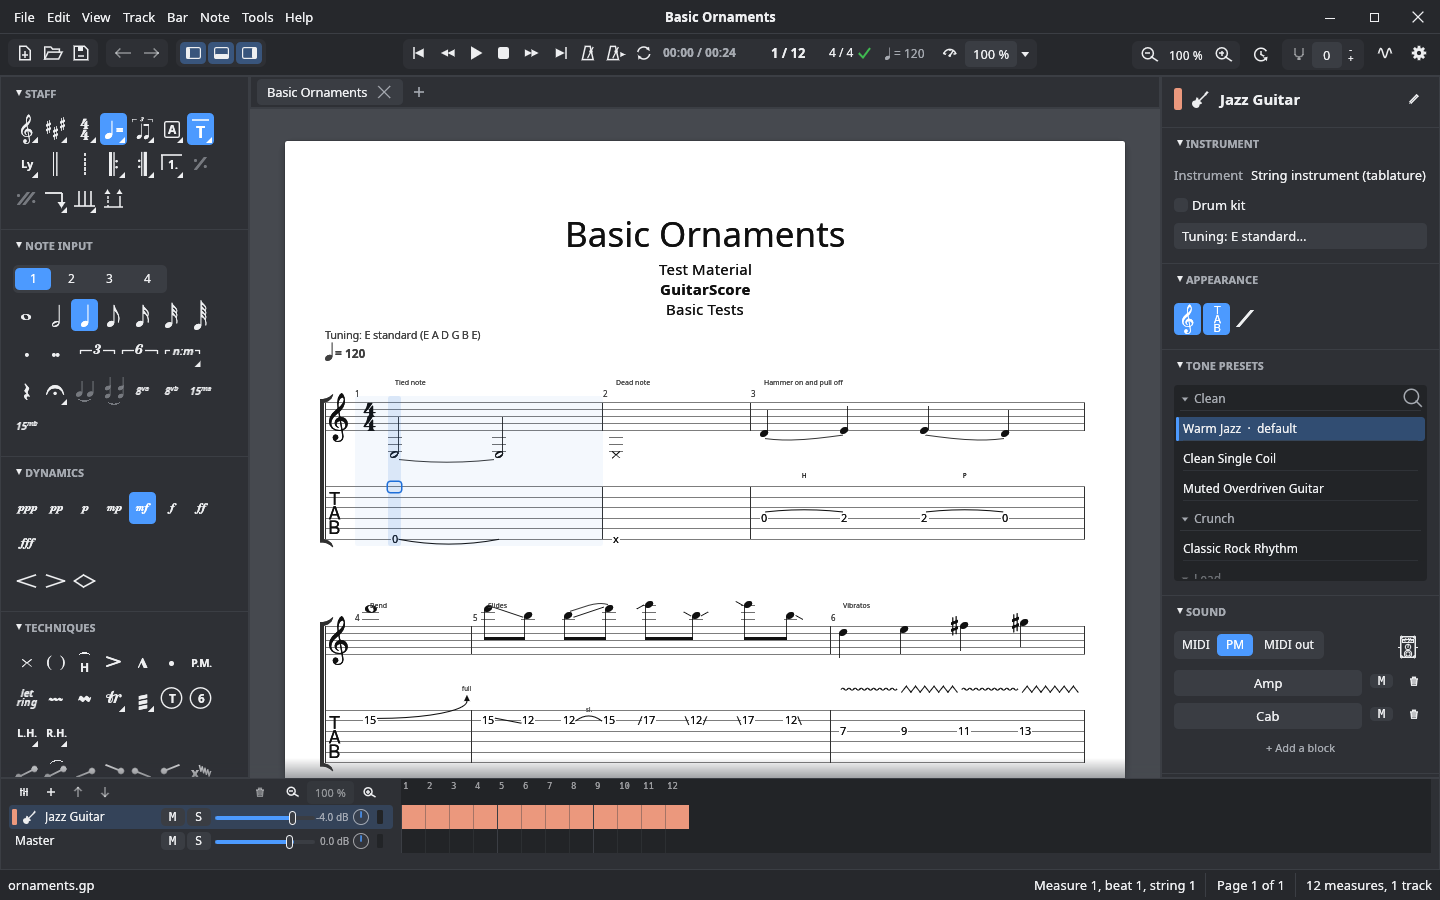
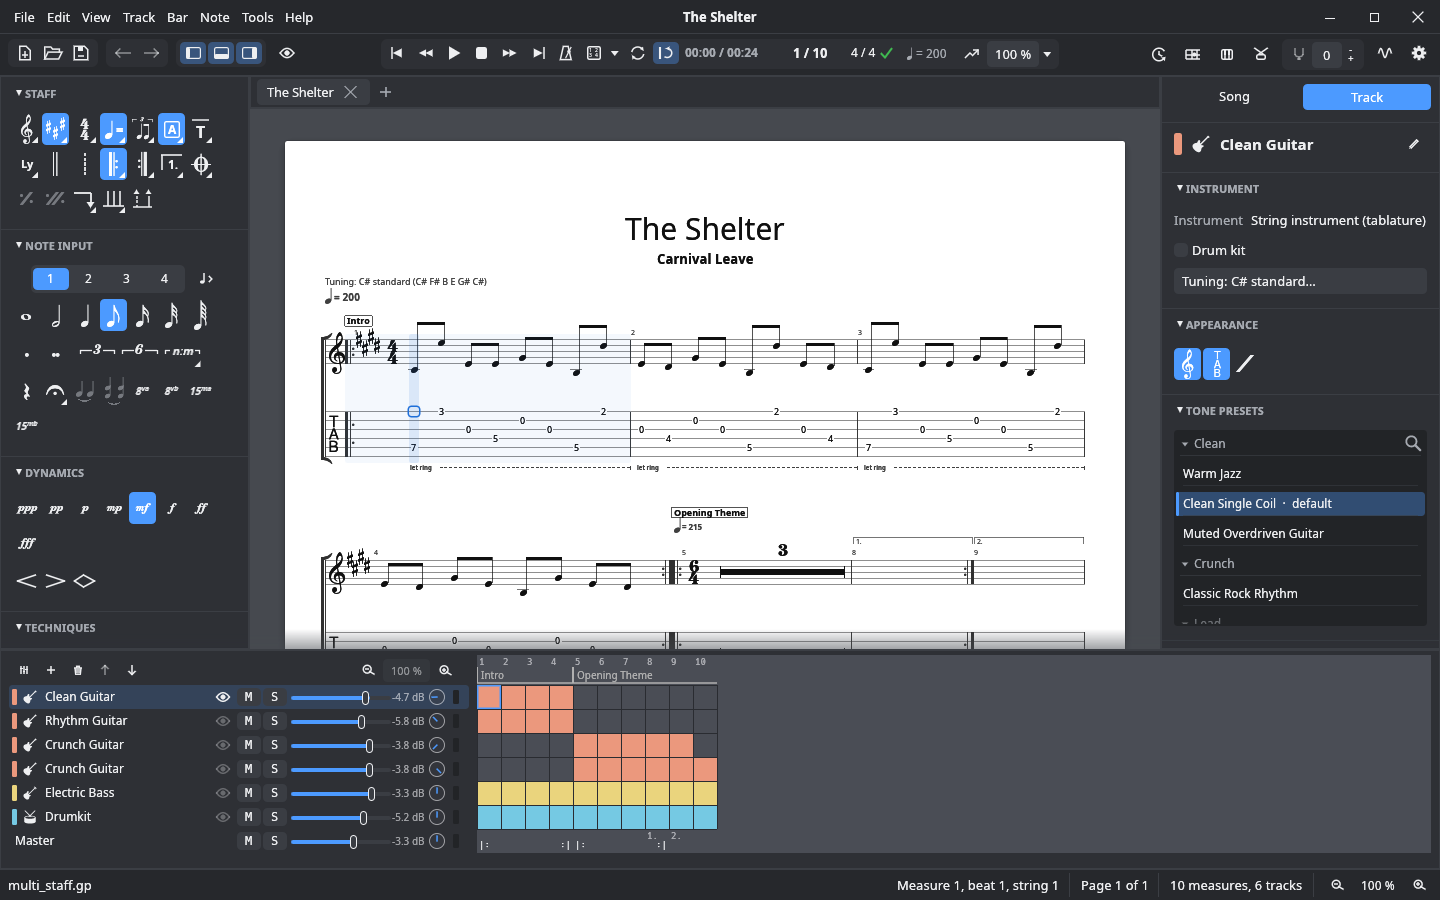
README: shorter points, new screenshot, practice view on a phone
- One line per point.
- The editor screenshot shows a song with several tracks and the song grid
  with its sections.
- Two phone screenshots of the practice view: the score and the drawer.
- The snapshot example takes --practice to render the practice view.

diff --git a/crates/gscore-app/examples/snapshot.rs b/crates/gscore-app/examples/snapshot.rs
@@ -2,7 +2,7 @@
 //! "Verify UI changes visually"):
 //!
 //! ```text
-//! cargo run -p gscore-app --example snapshot -- <file> <out.png> [--dark] [--track N] [--zoom Z] [--size WxH] [--settings] [--history] [--mixer] [--new-track] [--scale S] [--click LABEL]...
+//! cargo run -p gscore-app --example snapshot -- <file> <out.png> [--dark] [--track N] [--zoom Z] [--size WxH] [--settings] [--history] [--mixer] [--new-track] [--practice] [--scale S] [--click LABEL]...
 //! ```
 
 // An example is a small tool: failing loudly with a message is fine here.
@@ -19,14 +19,14 @@ use std::time::{Duration, Instant};
 
 use egui_kittest::Harness;
 use egui_kittest::kittest::Queryable;
-use gscore_app::{GuitarScoreApp, ThemeChoice};
+use gscore_app::{GuitarScoreApp, PracticeChoice, ThemeChoice};
 
 /// How long to wait for the file to open.
 const OPEN_TIMEOUT: Duration = Duration::from_secs(30);
 
 fn main() {
     let mut args = std::env::args().skip(1);
-    let usage = "usage: snapshot <file> <out.png> [--dark] [--track N] [--zoom Z] [--size WxH] [--settings] [--history] [--mixer] [--new-track] [--scale S] [--click LABEL]...";
+    let usage = "usage: snapshot <file> <out.png> [--dark] [--track N] [--zoom Z] [--size WxH] [--settings] [--history] [--mixer] [--new-track] [--practice] [--scale S] [--click LABEL]...";
     let file = PathBuf::from(args.next().expect(usage));
     let out = PathBuf::from(args.next().expect(usage));
     let (mut dark, mut track, mut zoom, mut size) = (false, 1_usize, 1.0_f32, (1100.0, 800.0));
@@ -34,6 +34,7 @@ fn main() {
     let mut history = false;
     let mut mixer = false;
     let mut new_track = false;
+    let mut practice = false;
     let mut scale = 1.0_f32;
     let mut clicks = Vec::new();
     while let Some(arg) = args.next() {
@@ -43,6 +44,7 @@ fn main() {
             "--history" => history = true,
             "--mixer" => mixer = true,
             "--new-track" => new_track = true,
+            "--practice" => practice = true,
             "--track" => track = args.next().and_then(|t| t.parse().ok()).expect(usage),
             "--scale" => scale = args.next().and_then(|s| s.parse().ok()).expect(usage),
             "--click" => clicks.push(args.next().expect(usage)),
@@ -97,6 +99,9 @@ fn main() {
         }
         if new_track {
             app.open_new_track();
+        }
+        if practice {
+            app.set_practice_view(PracticeChoice::On);
         }
     }
     harness.run();

diff --git a/README.md b/README.md
@@ -11,34 +11,23 @@
 you type, and open the Guitar Pro files you already have. Native, written in Rust, and
 built never to lose your work.
 
-![GuitarScore editing a tab with notation, techniques and the edit palette](docs/media/editor.png)
+![GuitarScore editing a song: notation and tab, the edit palette, and the song grid with its tracks and sections](docs/media/editor.png)
 
 ## Why GuitarScore
 
-- **Native and light.** One binary, GPU-rendered, no account, no cloud. Runs on all platforms and in the
-  browser. MIT licensed.
-- **Your Guitar Pro files.** Opens Guitar Pro 3 to 7+, saves Guitar Pro 7 files that open
-  in Guitar Pro again, and exports older Guitar Pro versions, MIDI and PDF. Every save is
-  read back and compared, and anything the file would lose is reported before you trust it.
-- **Never lose work.** Every edit goes to a recovery journal first; after a crash the next
-  start offers your document back, undo history included.
-- **Hear it.** Guitars and basses play on modelled strings through an effect chain you
-  dial in (drive, amp, cabinet, EQ, compressor, chorus, delay, reverb); a built-in
-  synthesizer plays everything else, and a mixer with buses and meters brings it together.
-  Or send any track to a MIDI synthesizer. A tuner is included.
-- **Keyboard first.** Type a fret, press `+` for a shorter note, arrow on. Every action
-  has a key, and every key can be rebound.
-- **Or play it in.** Step entry takes notes from typed frets, note names, the on-screen
-  fretboard and keyboard, or a MIDI keyboard or guitar, and moves on by itself; the
-  fingering picks string and fret, and you hear each note through the track's own sound.
-- **The whole score.** Notation and tab, all techniques with their own editors, several
-  tracks on one page, real pages or one endless page, light and dark. Named score views,
-  jumps and codas, multi-bar rests, and three music fonts (Bravura, Petaluma, Leland).
-- **See the song.** A song grid shows every track's bars with the song's sections: drag
-  sections and bars around, copy them between tracks, and jump to any bar.
-- **Practice anywhere.** A practice view made for phones and tablets: the score, a player
-  with loop and speed, and a compact mixer. The browser opens it on a small screen, `F2`
-  everywhere else.
+- **Native and light.** One binary, no account, no cloud; on the desktop and in the browser. MIT.
+- **Your Guitar Pro files.** Opens Guitar Pro 3 to 7+, saves Guitar Pro 7; exports MIDI and PDF.
+- **Never lose work.** A recovery journal brings your document back after a crash.
+- **Hear it.** Modelled guitars and basses with amp and effects, a mixer, a synthesizer for the rest.
+- **Enter it your way.** A key for every action, or play the notes in on a MIDI keyboard or guitar.
+- **The whole song.** Notation and tab with every technique, and a song grid with sections.
+- **Practice anywhere.** A practice view for phones and tablets: score, player, loop and speed.
+
+<p align="center">
+  <img src="docs/media/practice.png" width="260" alt="The practice view on a phone: the score and the player">
+  &nbsp;
+  <img src="docs/media/practice-drawer.png" width="260" alt="The practice view's drawer: loop, speed, metronome, mixer and more">
+</p>
 
 ## Installation
 
